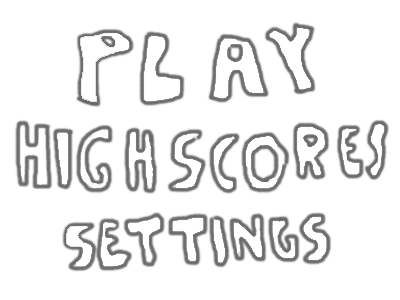
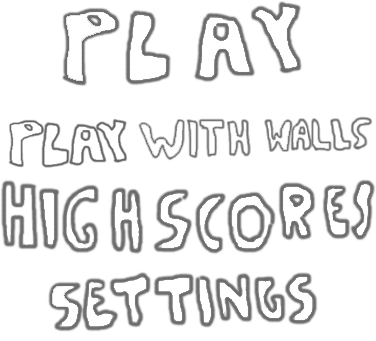
added new game mode

diff --git a/MrNom/app/src/main/java/com/smirnov/alexander/mrnom/GameScreen.java b/MrNom/app/src/main/java/com/smirnov/alexander/mrnom/GameScreen.java
@@ -188,14 +188,24 @@ public class GameScreen extends Screen {
         Graphics g = game.getGraphics();
 
         g.drawPixmap(Assets.ready, 100, 200);
-        g.drawLine(0, 830, 960, 830, Color.BLACK);
+        if (Settings.enableWalls) {
+            g.drawLine(2, 2, 2, 830, Color.BLACK);
+            g.drawLine(2, 2, 637, 2, Color.BLACK);
+            g.drawLine(638, 2, 637, 830, Color.BLACK);
+        }
+        g.drawLine(0, 830, 640, 830, Color.BLACK);
     }
 
     private void drawRunningUI() {
         Graphics g = game.getGraphics();
 
         g.drawPixmap(Assets.buttons, 0, 0, 128, 256, 128, 128);
-        g.drawLine(0, 830, 960, 830, Color.BLACK);
+        if (Settings.enableWalls) {
+            g.drawLine(2, 2, 2, 830, Color.BLACK);
+            g.drawLine(2, 2, 637, 2, Color.BLACK);
+            g.drawLine(638, 2, 637, 830, Color.BLACK);
+        }
+        g.drawLine(0, 830, 640, 830, Color.BLACK);
         g.drawPixmap(Assets.buttons, 0, 832, 128, 128, 128, 128);
         g.drawPixmap(Assets.buttons, 512, 832, 0, 128, 128, 128);
     }
@@ -204,7 +214,12 @@ public class GameScreen extends Screen {
         Graphics g = game.getGraphics();
 
         g.drawPixmap(Assets.pause, 160, 200);
-        g.drawLine(0, 830, 960, 830, Color.BLACK);
+        if (Settings.enableWalls) {
+            g.drawLine(2, 2, 2, 830, Color.BLACK);
+            g.drawLine(2, 2, 637, 2, Color.BLACK);
+            g.drawLine(638, 2, 637, 830, Color.BLACK);
+        }
+        g.drawLine(0, 830, 640, 830, Color.BLACK);
     }
 
     private void drawGameOverUI() {
@@ -212,7 +227,12 @@ public class GameScreen extends Screen {
 
         g.drawPixmap(Assets.gameOver, 124, 200);
         g.drawPixmap(Assets.buttons, 256, 400, 0, 256, 128, 128);
-        g.drawLine(0, 830, 960, 830, Color.BLACK);
+        if (Settings.enableWalls) {
+            g.drawLine(2, 2, 2, 830, Color.BLACK);
+            g.drawLine(2, 2, 637, 2, Color.BLACK);
+            g.drawLine(638, 2, 637, 830, Color.BLACK);
+        }
+        g.drawLine(0, 830, 640, 830, Color.BLACK);
     }
 
     public void drawText(Graphics g, String line, int x, int y) {

diff --git a/MrNom/app/src/main/java/com/smirnov/alexander/mrnom/MainMenuScreen.java b/MrNom/app/src/main/java/com/smirnov/alexander/mrnom/MainMenuScreen.java
@@ -34,18 +34,26 @@ public class MainMenuScreen extends Screen {
                     Assets.click.play();
                 }
                 if(inBounds(event, 128, 440, 384, 84) ) {
+                    Settings.enableWalls = false;
                     game.setScreen(new GameScreen(game));
                     Assets.click.play();
                     Assets.musicMainMenu.reset();
                     return;
                 }
-                if(inBounds(event, 128, 440 + 82, 384, 84) ) {
+                if(inBounds(event, 128, 440 + 82, 384, 90) ) {
+                    Settings.enableWalls = true;
+                    game.setScreen(new GameScreen(game));
+                    Assets.click.play();
+                    Assets.musicMainMenu.reset();
+                    return;
+                }
+                if(inBounds(event, 128, 440 + 180, 384, 84) ) {
                     game.setScreen(new HighscoreScreen(game));
                     Assets.click.play();
                     Assets.musicMainMenu.reset();
                     return;
                 }
-                if(inBounds(event, 128, 440 + 180, 384, 90) ) {
+                if(inBounds(event, 128, 440 + 260, 384, 90) ) {
                     game.setScreen(new SettingsScreen(game));
                     Assets.click.play();
                     Assets.musicMainMenu.reset();

diff --git a/MrNom/app/src/main/java/com/smirnov/alexander/mrnom/Snake.java b/MrNom/app/src/main/java/com/smirnov/alexander/mrnom/Snake.java
@@ -81,14 +81,16 @@ public class Snake {
         if(direction == RIGHT)
             head.x += 1;
 
-        if(head.x < 0)
-            head.x = 9;
-        if(head.x > 9)
-            head.x = 0;
-        if(head.y < 0)
-            head.y = 12;
-        if(head.y > 12)
-            head.y = 0;
+        if (!Settings.enableWalls) {
+            if(head.x < 0)
+                head.x = 9;
+            if(head.x > 9)
+                head.x = 0;
+            if(head.y < 0)
+                head.y = 12;
+            if(head.y > 12)
+                head.y = 0;
+        }
     }
 
     public boolean checkBitten() {
@@ -99,6 +101,13 @@ public class Snake {
             if(part.x == head.x && part.y == head.y)
                 return true;
         }
+        return false;
+    }
+
+    public boolean checkEatenWalls() {
+        SnakePart head = parts.get(0);
+        if(head.x < 0 || head.x > 9 || head.y < 0 || head.y > 12)
+            return true;
         return false;
     }
 }

diff --git a/MrNom/app/src/main/java/com/smirnov/alexander/mrnom/SettingsScreen.java b/MrNom/app/src/main/java/com/smirnov/alexander/mrnom/SettingsScreen.java
@@ -79,7 +79,7 @@ public class SettingsScreen extends Screen {
         String soundVolume = String.format("%.1f", Assets.click.getVolume());
         Graphics g = game.getGraphics();
         g.drawPixmap(Assets.background, 0, 0);
-        g.drawPixmap(Assets.mainMenu, 130, 40, 0, 200, 400, 100);
+        g.drawPixmap(Assets.mainMenu, 130, 40, 0, 270, 400, 100);
         g.drawPixmap(Assets.buttons, 500, 0, 0, 128, 128, 128);
         g.drawPixmap(Assets.settingsMenu, 120, 140, 0, 0, 400, 110);
         if(Settings.showFPS) {

diff --git a/MrNom/app/src/main/java/com/smirnov/alexander/mrnom/HighscoreScreen.java b/MrNom/app/src/main/java/com/smirnov/alexander/mrnom/HighscoreScreen.java
@@ -49,7 +49,7 @@ public class HighscoreScreen extends Screen {
         Graphics g = game.getGraphics();
 
         g.drawPixmap(Assets.background, 0, 0);
-        g.drawPixmap(Assets.mainMenu, 140, 40, 0, 110, 400, 100);
+        g.drawPixmap(Assets.mainMenu, 140, 40, 0, 170, 400, 100);
         if(Settings.showFPS)
             g.drawDebugText(20, 20, Color.BLACK, String.format("FPS: %.0f", 1/deltaTime));
 

diff --git a/MrNom/app/src/main/java/com/smirnov/alexander/mrnom/World.java b/MrNom/app/src/main/java/com/smirnov/alexander/mrnom/World.java
@@ -67,6 +67,10 @@ public class World {
                 gameOver = true;
                 return;
             }
+            if (Settings.enableWalls && snake.checkEatenWalls()) {
+                gameOver = true;
+                return;
+            }
 
             SnakePart head = snake.parts.get(0);
             if (head.x == stain.x && head.y == stain.y) {

diff --git a/MrNom/app/src/main/java/com/smirnov/alexander/mrnom/Settings.java b/MrNom/app/src/main/java/com/smirnov/alexander/mrnom/Settings.java
@@ -10,6 +10,7 @@ import com.smirnov.alexander.framework.FileIO;
 public class Settings {
     public static boolean soundEnabled = true;
     public static boolean showFPS = false;
+    public static boolean enableWalls = false;
     public static int[] highscores = new int[] { 100, 80, 50, 30, 10 };
 
     public static void load(FileIO files) {
